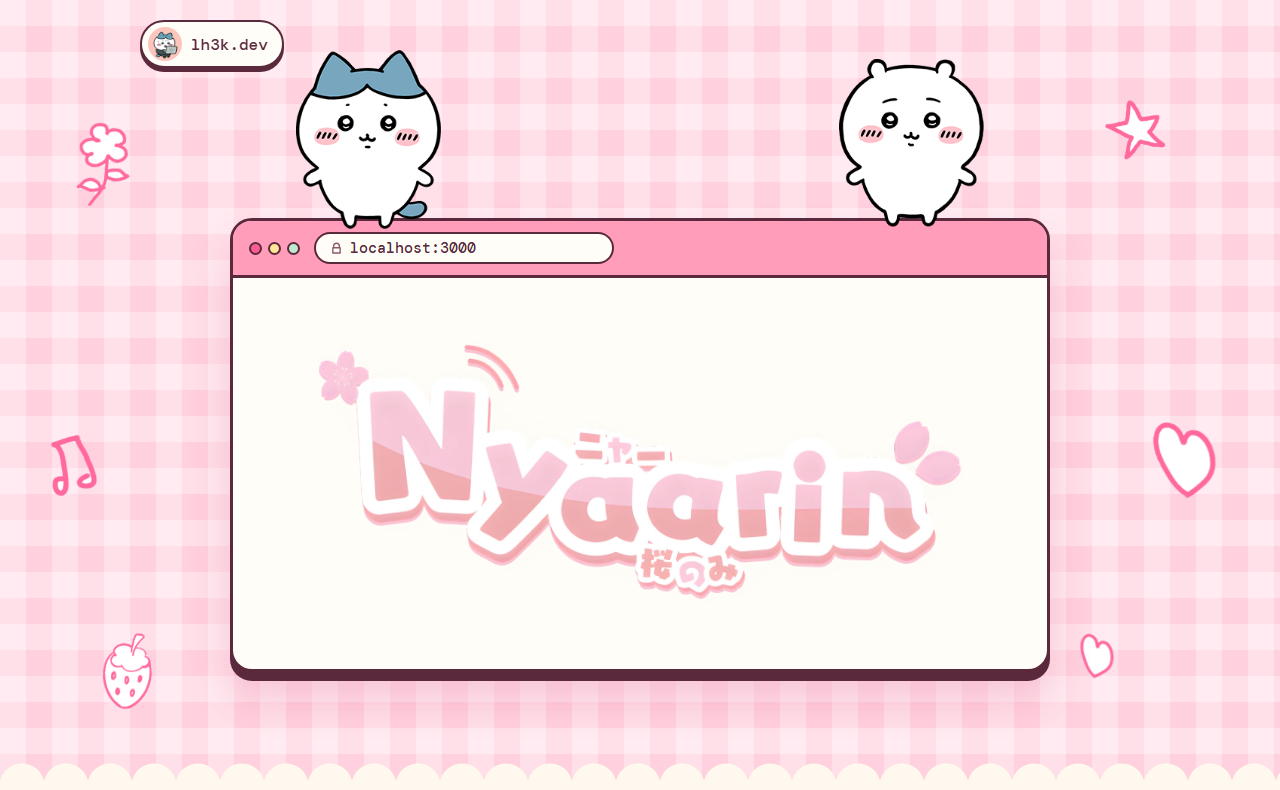
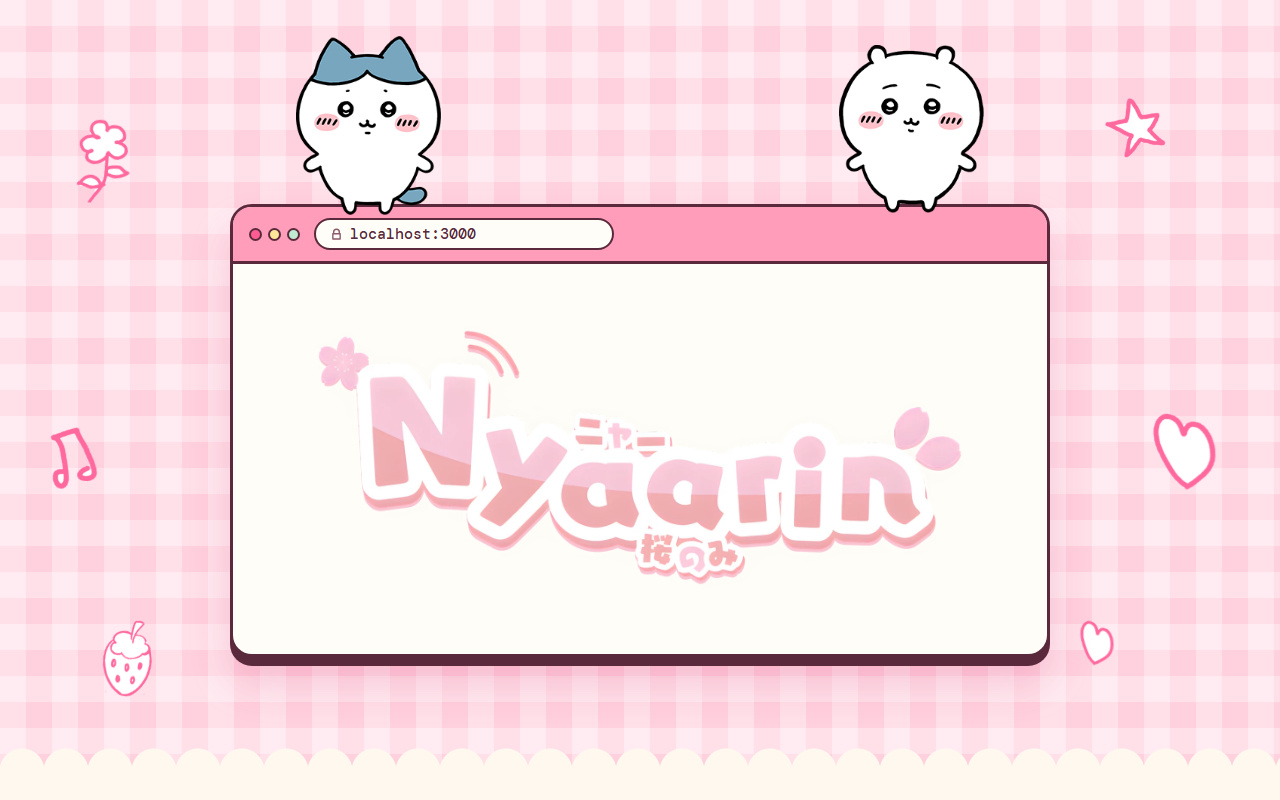
Lavender band for where I've worked, and quieter links
Drops the name tag at the top. The timeline gets its own scalloped band and its dashed line back, card links turn pink on hover, and the footer icons go back to plum on their pastel squares.

diff --git a/styles.css b/styles.css
@@ -39,27 +39,6 @@ img { max-width: 100%; height: auto; }
   background-size: 52px 52px;
 }
 
-.nav {
-  position: relative;
-  z-index: 5;
-  max-width: 1040px;
-  margin: 0 auto;
-  padding: 20px 20px 0;
-}
-.brand {
-  display: inline-flex;
-  align-items: center;
-  gap: 9px;
-  padding: 5px 14px 5px 6px;
-  font: 500 16px var(--mono);
-  text-decoration: none;
-  background: var(--paper);
-  border: 2.5px solid var(--ink);
-  border-radius: 999px;
-  box-shadow: 0 4px 0 var(--ink);
-}
-.brand img { display: block; width: 34px; height: 34px; border-radius: 50%; }
-
 /* hand-drawn doodles from little fm, scattered on the gingham */
 .petals { position: absolute; inset: 0; pointer-events: none; }
 .petal { position: absolute; width: auto; max-width: none; animation: bob 6s ease-in-out infinite; }
@@ -79,7 +58,7 @@ img { max-width: 100%; height: auto; }
   z-index: 2;
   max-width: 860px;
   margin: 0 auto;
-  padding: 150px 20px 84px;
+  padding: 204px 20px 84px;
 }
 .window-wrap { position: relative; }
 
@@ -230,14 +209,37 @@ img.icon { display: block; }
 }
 .chip.star { background: var(--butter); border-color: #eccf6c; }
 .links { display: flex; gap: 14px; margin-left: auto; }
-.links a { font-weight: 800; font-size: 15px; text-decoration: underline; text-decoration-color: var(--rose); text-decoration-thickness: 2.5px; text-underline-offset: 4px; }
-.links a:hover { text-decoration-color: var(--hot); }
+.links a { font-weight: 800; font-size: 15px; text-decoration: none; transition: color .12s; }
+.links a:hover { color: var(--hot); }
 .more { margin-top: 36px; font-weight: 700; }
-.more a { text-decoration-color: var(--rose); text-decoration-thickness: 2.5px; text-underline-offset: 4px; }
+.more a { text-decoration: none; transition: color .12s; }
+.more a:hover { color: var(--hot); }
 
-/* ---------- where I've worked: a plain timeline ---------- */
+/* ---------- where I've worked: a plain timeline on its own band ---------- */
 
-.work { max-width: 880px; margin: 0 auto; padding: 10px 20px 40px; text-align: center; }
+.band {
+  --band: #efe8fb;
+  position: relative;
+  margin-top: 30px;
+  padding: 34px 0 58px;
+  background-color: var(--band);
+  background-image:
+    linear-gradient(rgba(255, 255, 255, .45) 50%, transparent 50%),
+    linear-gradient(90deg, rgba(255, 255, 255, .45) 50%, transparent 50%);
+  background-size: 52px 52px;
+}
+.band::before, .band::after {
+  content: '';
+  position: absolute;
+  left: 0; right: 0;
+  height: 26px;
+  background-size: 44px 26px;
+  background-repeat: repeat-x;
+}
+.band::before { top: 0; background-image: radial-gradient(circle at 22px -4px, var(--cream) 22px, transparent 23px); }
+.band::after { bottom: 0; background-image: radial-gradient(circle at 22px 30px, var(--cream) 22px, transparent 23px); }
+
+.work { position: relative; z-index: 1; max-width: 880px; margin: 0 auto; padding: 40px 20px; text-align: center; }
 .timeline {
   position: relative;
   margin: 46px 0 0;
@@ -249,10 +251,8 @@ img.icon { display: block; }
   content: '';
   position: absolute;
   top: 10px; bottom: 6px; left: 50%;
-  width: 2px;
-  margin-left: -1px;
-  background: var(--line);
-  border-radius: 2px;
+  margin-left: -1.5px;
+  border-left: 3px dashed var(--rose);
 }
 .stop {
   position: relative;
@@ -270,7 +270,7 @@ img.icon { display: block; }
   background: var(--rose);
   border: 2.5px solid var(--ink);
   border-radius: 50%;
-  box-shadow: 0 0 0 5px var(--cream);     /* a gap in the line around the dot */
+  box-shadow: 0 0 0 4px var(--band);     /* a gap in the dashes around the dot */
 }
 .stop-head { text-align: right; }
 .when { font: 400 13px/1.9 var(--mono); letter-spacing: .01em; color: var(--soft); }
@@ -297,7 +297,7 @@ img.icon { display: block; }
 
 @media (max-width: 720px) {
   .timeline { margin-top: 36px; }
-  .timeline::before { left: 7px; }
+  .timeline::before { left: 7.5px; }
   .stop { grid-template-columns: 1fr; gap: 10px; padding: 0 0 40px 34px; }
   .pin { left: 7px; }
   .stop-head { text-align: left; }
@@ -310,7 +310,7 @@ img.icon { display: block; }
   display: flex;
   justify-content: center;
   gap: 14px;
-  padding: 44px 20px 56px;
+  padding: 30px 20px 52px;
 }
 .find a {
   display: grid;
@@ -324,12 +324,12 @@ img.icon { display: block; }
 }
 .find a:hover { transform: translateY(-3px); box-shadow: 0 8px 0 var(--ink); }
 .find a:active { transform: translateY(5px); box-shadow: 0 0 0 var(--ink); }
-.find svg { width: 23px; height: 23px; fill: var(--g); }
+.find svg { width: 23px; height: 23px; fill: var(--ink); }
 
 /* ---------- small screens ---------- */
 
 @media (max-width: 720px) {
-  .stage { padding: 142px 16px 66px; }
+  .stage { padding: 150px 16px 66px; }
   .buddy { width: 108px; top: -119px; right: 6%; }
   .buddy.left { left: 6%; top: -125px; }
   .p1 { top: 21%; left: 3%; height: 58px; }
@@ -340,7 +340,6 @@ img.icon { display: block; }
   .p6 { display: none; }
 }
 @media (max-width: 380px) {
-  .nav { padding: 16px 14px 0; }
   .dots i { width: 11px; height: 11px; }
   .bar { gap: 10px; padding: 10px 12px; }
 }

diff --git a/index.html b/index.html
@@ -22,13 +22,6 @@
 </head>
 <body>
   <div class="hero">
-    <header class="nav">
-      <a class="brand" href="/" aria-label="lh3k.dev, home">
-        <img src="/assets/pfp.jpg" width="34" height="34" alt="">
-        <span>lh3k.dev</span>
-      </a>
-    </header>
-
     <div class="petals" aria-hidden="true">
       <img class="petal p1" src="/assets/doodles/flower.png" width="249" height="384" alt="">
       <img class="petal p2" src="/assets/doodles/heart.png" width="303" height="384" alt="">
@@ -156,6 +149,7 @@
     <p class="more"><a href="https://github.com/Nyaughh?tab=repositories">Everything else is on GitHub</a></p>
   </section>
 
+  <div class="band">
   <section class="work" id="work" aria-labelledby="workTitle">
     <h2 class="title" id="workTitle">Where I've worked</h2>
     <ol class="timeline">
@@ -212,12 +206,13 @@
       </li>
     </ol>
   </section>
+  </div>
 
   <footer class="find" aria-label="Find me">
-    <a href="https://github.com/Nyaughh" aria-label="GitHub" style="--c:#e2dbf3;--g:#4b3a73"><svg viewBox="0 0 24 24" aria-hidden="true"><path d="M12 .5A11.5 11.5 0 0 0 .5 12.3c0 5.2 3.4 9.6 8.1 11.1.6.1.8-.3.8-.6v-2.1c-3.3.7-4-1.4-4-1.4-.6-1.4-1.5-1.8-1.5-1.8-1.2-.8.1-.8.1-.8 1.3.1 2 1.4 2 1.4 1.1 1.9 2.9 1.4 3.6 1.1.1-.8.4-1.4.7-1.8-2.7-.3-5.6-1.4-5.6-6.1 0-1.4.5-2.5 1.3-3.4-.1-.3-.6-1.6.1-3.3 0 0 1-.3 3.4 1.3a11.7 11.7 0 0 1 6.2 0c2.4-1.6 3.4-1.3 3.4-1.3.7 1.7.2 3 .1 3.3.8.9 1.3 2 1.3 3.4 0 4.7-2.9 5.8-5.6 6.1.4.3.8 1 .8 2v3c0 .3.2.7.8.6 4.7-1.5 8.1-5.9 8.1-11.1A11.5 11.5 0 0 0 12 .5Z"/></svg></a>
-    <a href="https://www.linkedin.com/in/aarin-arora-8538b825b" aria-label="LinkedIn" style="--c:#cfe3fa;--g:#1f5a99"><svg viewBox="0 0 24 24" aria-hidden="true"><path d="M4.98 3.5C4.98 4.9 3.9 6 2.5 6S0 4.9 0 3.5 1.1 1 2.5 1 5 2.1 5 3.5zM.5 8.5h4V23h-4zM8.5 8.5h3.8v2h.1c.5-.9 1.8-2.1 3.8-2.1 4 0 4.7 2.6 4.7 6V23h-4v-6.5c0-1.6 0-3.7-2.3-3.7s-2.7 1.7-2.7 3.6V23h-4z"/></svg></a>
-    <a href="https://x.com/Nyaughh_" aria-label="X (Twitter)" style="--c:#e4e1e6;--g:#2f2a33"><svg viewBox="0 0 24 24" aria-hidden="true"><path d="M18.244 2.25h3.308l-7.227 8.26 8.502 11.24H16.17l-5.214-6.817L4.99 21.75H1.68l7.73-8.835L1.254 2.25H8.08l4.713 6.231zm-1.161 17.52h1.833L7.084 4.126H5.117z"/></svg></a>
-    <a href="mailto:nyaughh@gmail.com" aria-label="Email" style="--c:#ffd8d1;--g:#b8443a"><svg viewBox="0 0 24 24" aria-hidden="true"><path d="M20 4H4c-1.1 0-1.99.9-1.99 2L2 18c0 1.1.9 2 2 2h16c1.1 0 2-.9 2-2V6c0-1.1-.9-2-2-2zm0 4l-8 5-8-5V6l8 5 8-5v2z"/></svg></a>
+    <a href="https://github.com/Nyaughh" aria-label="GitHub" style="--c:#e2dbf3"><svg viewBox="0 0 24 24" aria-hidden="true"><path d="M12 .5A11.5 11.5 0 0 0 .5 12.3c0 5.2 3.4 9.6 8.1 11.1.6.1.8-.3.8-.6v-2.1c-3.3.7-4-1.4-4-1.4-.6-1.4-1.5-1.8-1.5-1.8-1.2-.8.1-.8.1-.8 1.3.1 2 1.4 2 1.4 1.1 1.9 2.9 1.4 3.6 1.1.1-.8.4-1.4.7-1.8-2.7-.3-5.6-1.4-5.6-6.1 0-1.4.5-2.5 1.3-3.4-.1-.3-.6-1.6.1-3.3 0 0 1-.3 3.4 1.3a11.7 11.7 0 0 1 6.2 0c2.4-1.6 3.4-1.3 3.4-1.3.7 1.7.2 3 .1 3.3.8.9 1.3 2 1.3 3.4 0 4.7-2.9 5.8-5.6 6.1.4.3.8 1 .8 2v3c0 .3.2.7.8.6 4.7-1.5 8.1-5.9 8.1-11.1A11.5 11.5 0 0 0 12 .5Z"/></svg></a>
+    <a href="https://www.linkedin.com/in/aarin-arora-8538b825b" aria-label="LinkedIn" style="--c:#cfe3fa"><svg viewBox="0 0 24 24" aria-hidden="true"><path d="M4.98 3.5C4.98 4.9 3.9 6 2.5 6S0 4.9 0 3.5 1.1 1 2.5 1 5 2.1 5 3.5zM.5 8.5h4V23h-4zM8.5 8.5h3.8v2h.1c.5-.9 1.8-2.1 3.8-2.1 4 0 4.7 2.6 4.7 6V23h-4v-6.5c0-1.6 0-3.7-2.3-3.7s-2.7 1.7-2.7 3.6V23h-4z"/></svg></a>
+    <a href="https://x.com/Nyaughh_" aria-label="X (Twitter)" style="--c:#e4e1e6"><svg viewBox="0 0 24 24" aria-hidden="true"><path d="M18.244 2.25h3.308l-7.227 8.26 8.502 11.24H16.17l-5.214-6.817L4.99 21.75H1.68l7.73-8.835L1.254 2.25H8.08l4.713 6.231zm-1.161 17.52h1.833L7.084 4.126H5.117z"/></svg></a>
+    <a href="mailto:nyaughh@gmail.com" aria-label="Email" style="--c:#ffd8d1"><svg viewBox="0 0 24 24" aria-hidden="true"><path d="M20 4H4c-1.1 0-1.99.9-1.99 2L2 18c0 1.1.9 2 2 2h16c1.1 0 2-.9 2-2V6c0-1.1-.9-2-2-2zm0 4l-8 5-8-5V6l8 5 8-5v2z"/></svg></a>
   </footer>
 
 
